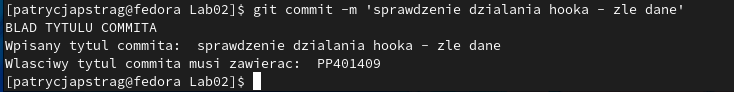
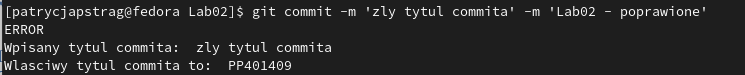
PP401409
Lab02

Changed region(s): [[0.0, 0.0, 0.9591, 1.0]]

diff --git a/ITE/GCL07/PP401409/Lab02/sprawozdanie.md b/ITE/GCL07/PP401409/Lab02/sprawozdanie.md
@@ -16,20 +16,21 @@ i='PP401409'
 nr_l='Lab02'
 
 if ! [[ "$a" = $i ]]; then
-    echo "BLAD TYTULU COMMITA"
+    echo "ERROR"
     echo "Wpisany tytul commita: " $a
-    echo "Wlasciwy tytul commita musi zawierac: " $i
+    echo "Wlasciwy tytul commita to: " $i
     exit 1
 fi
 
 if ! [[ "$b" = $nr_l ]]; then
-    echo "BLAD TRESCI COMMITA"
-    echo "Wpisana tresc commita:" $b 
-    echo "Wlasciwa tresc commita musi zawierac: " $nr_l
+    echo "ERROR"
+    echo "Wpisana tresc commita: " $b 
+    echo "Wlasciwa tresc commita to: " $nr_l
     exit 1
 fi
 
-echo "Commit zaakceptowany"
+echo "Commit message OK!"
+exit 0
 ```
 
 3. Przykład działania
